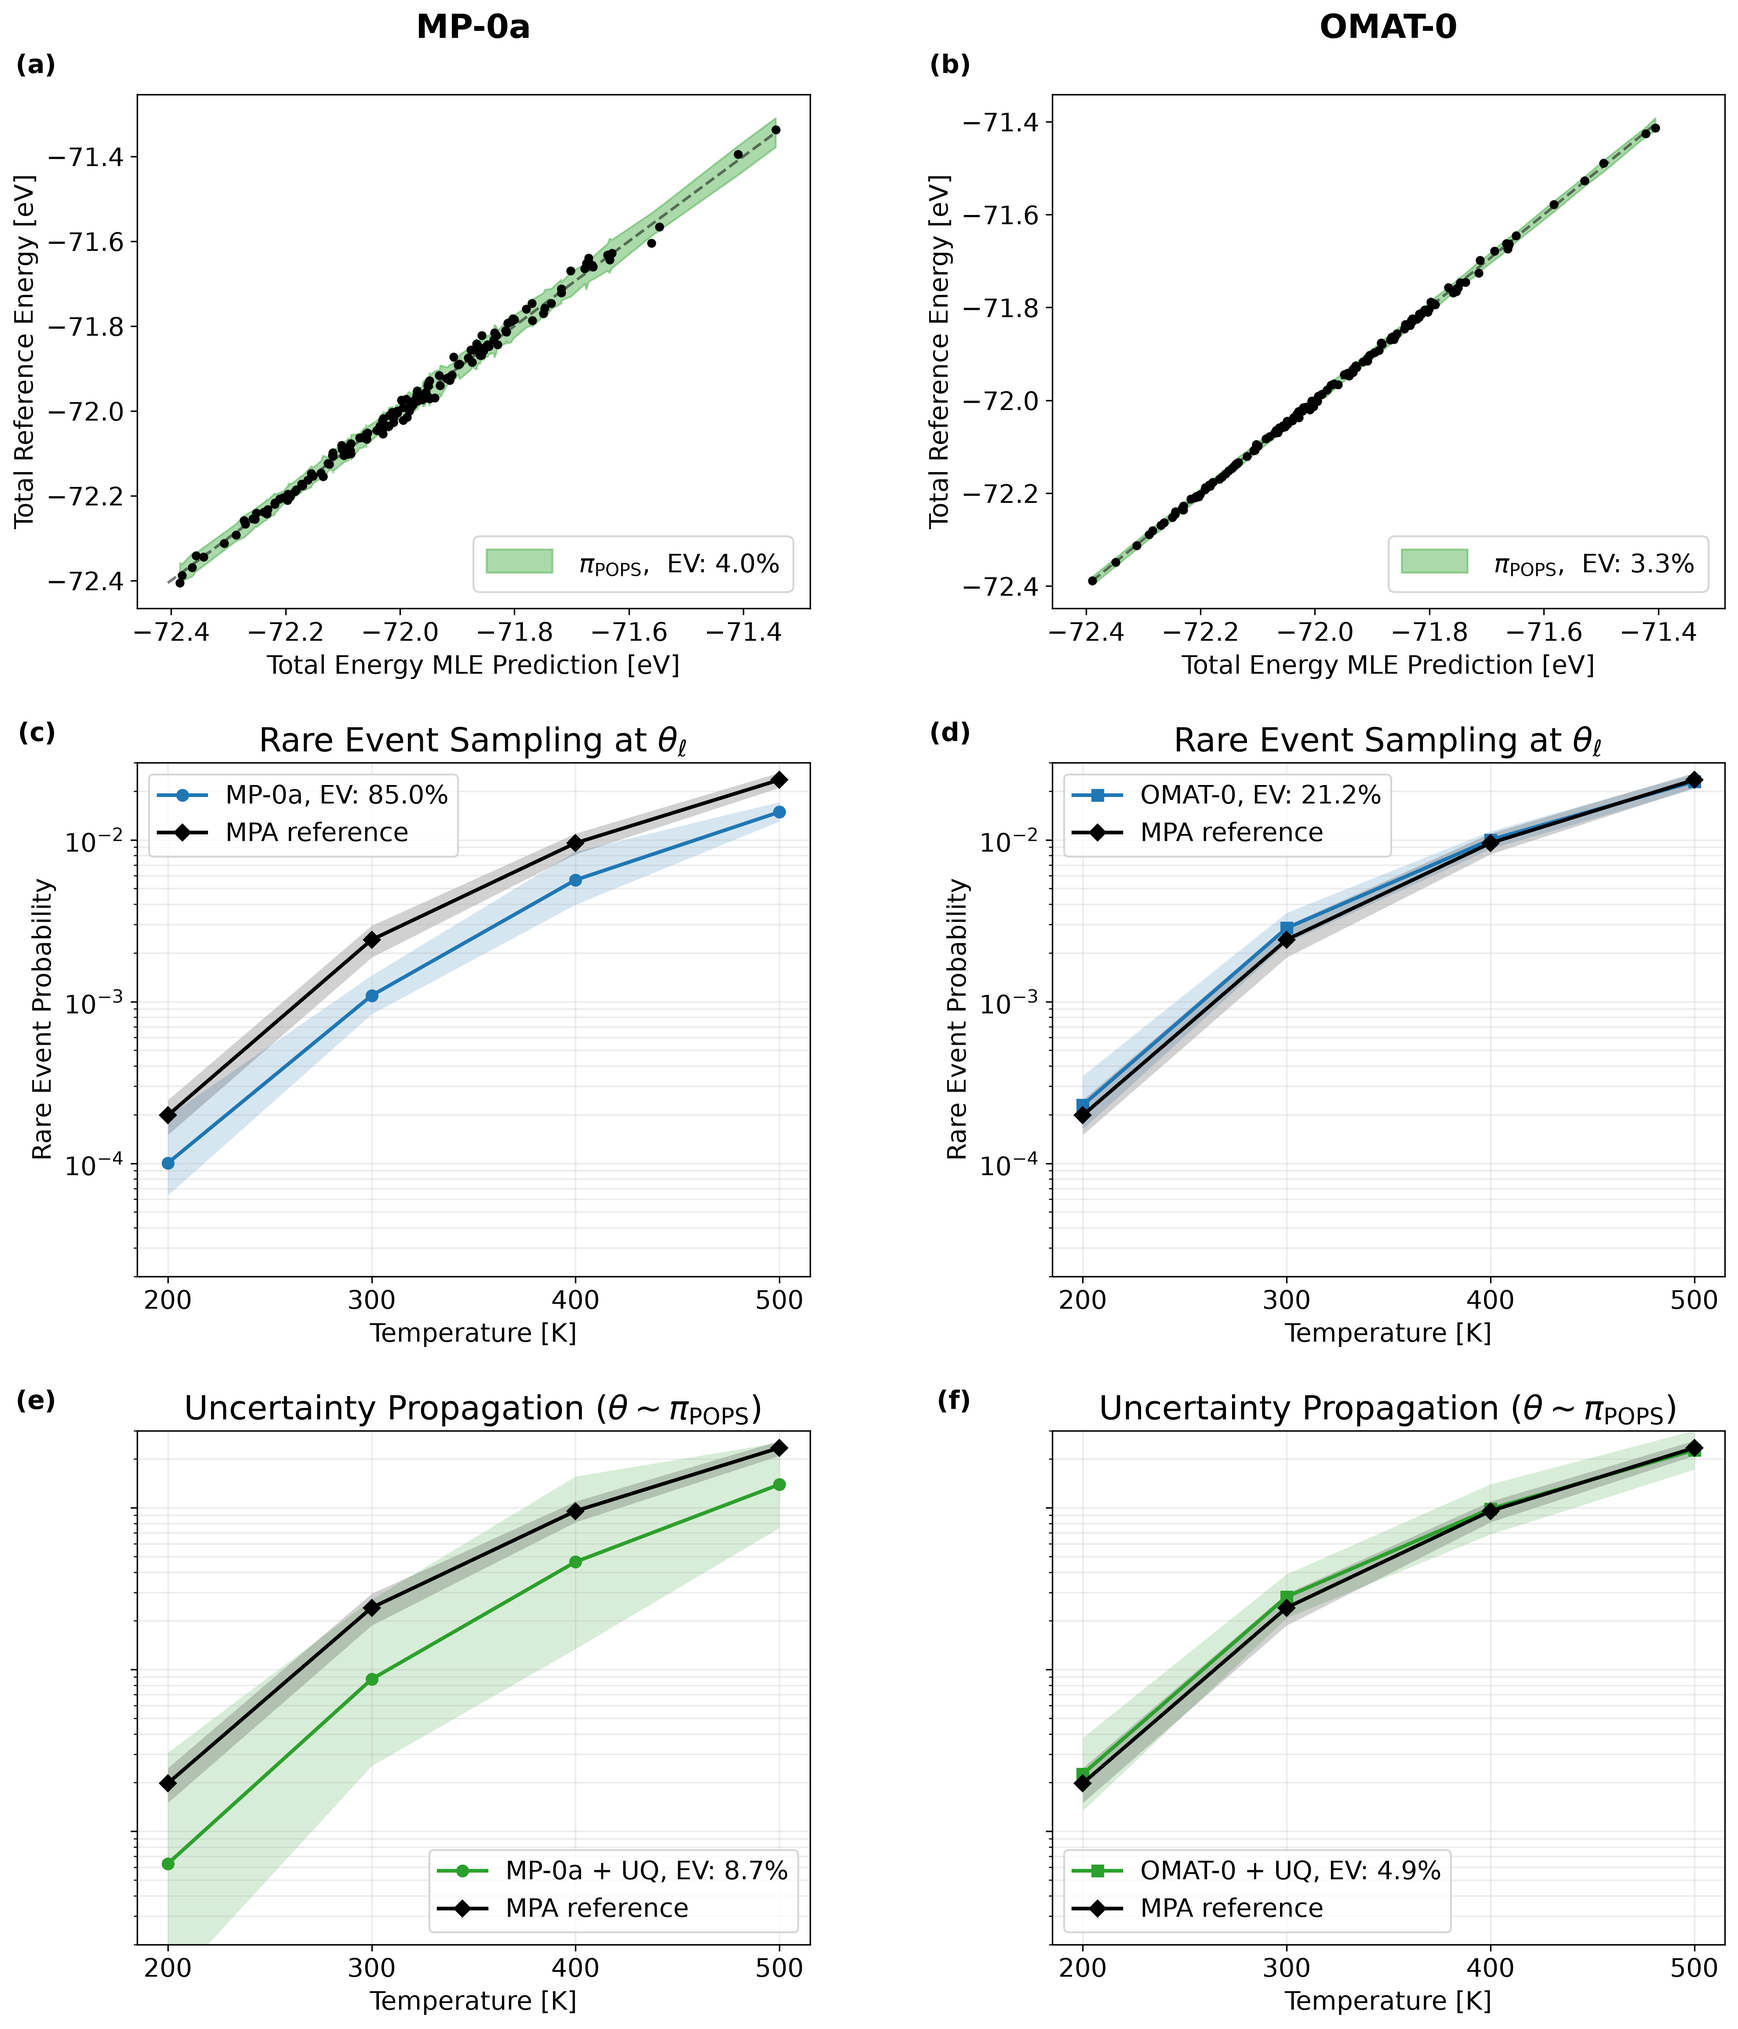
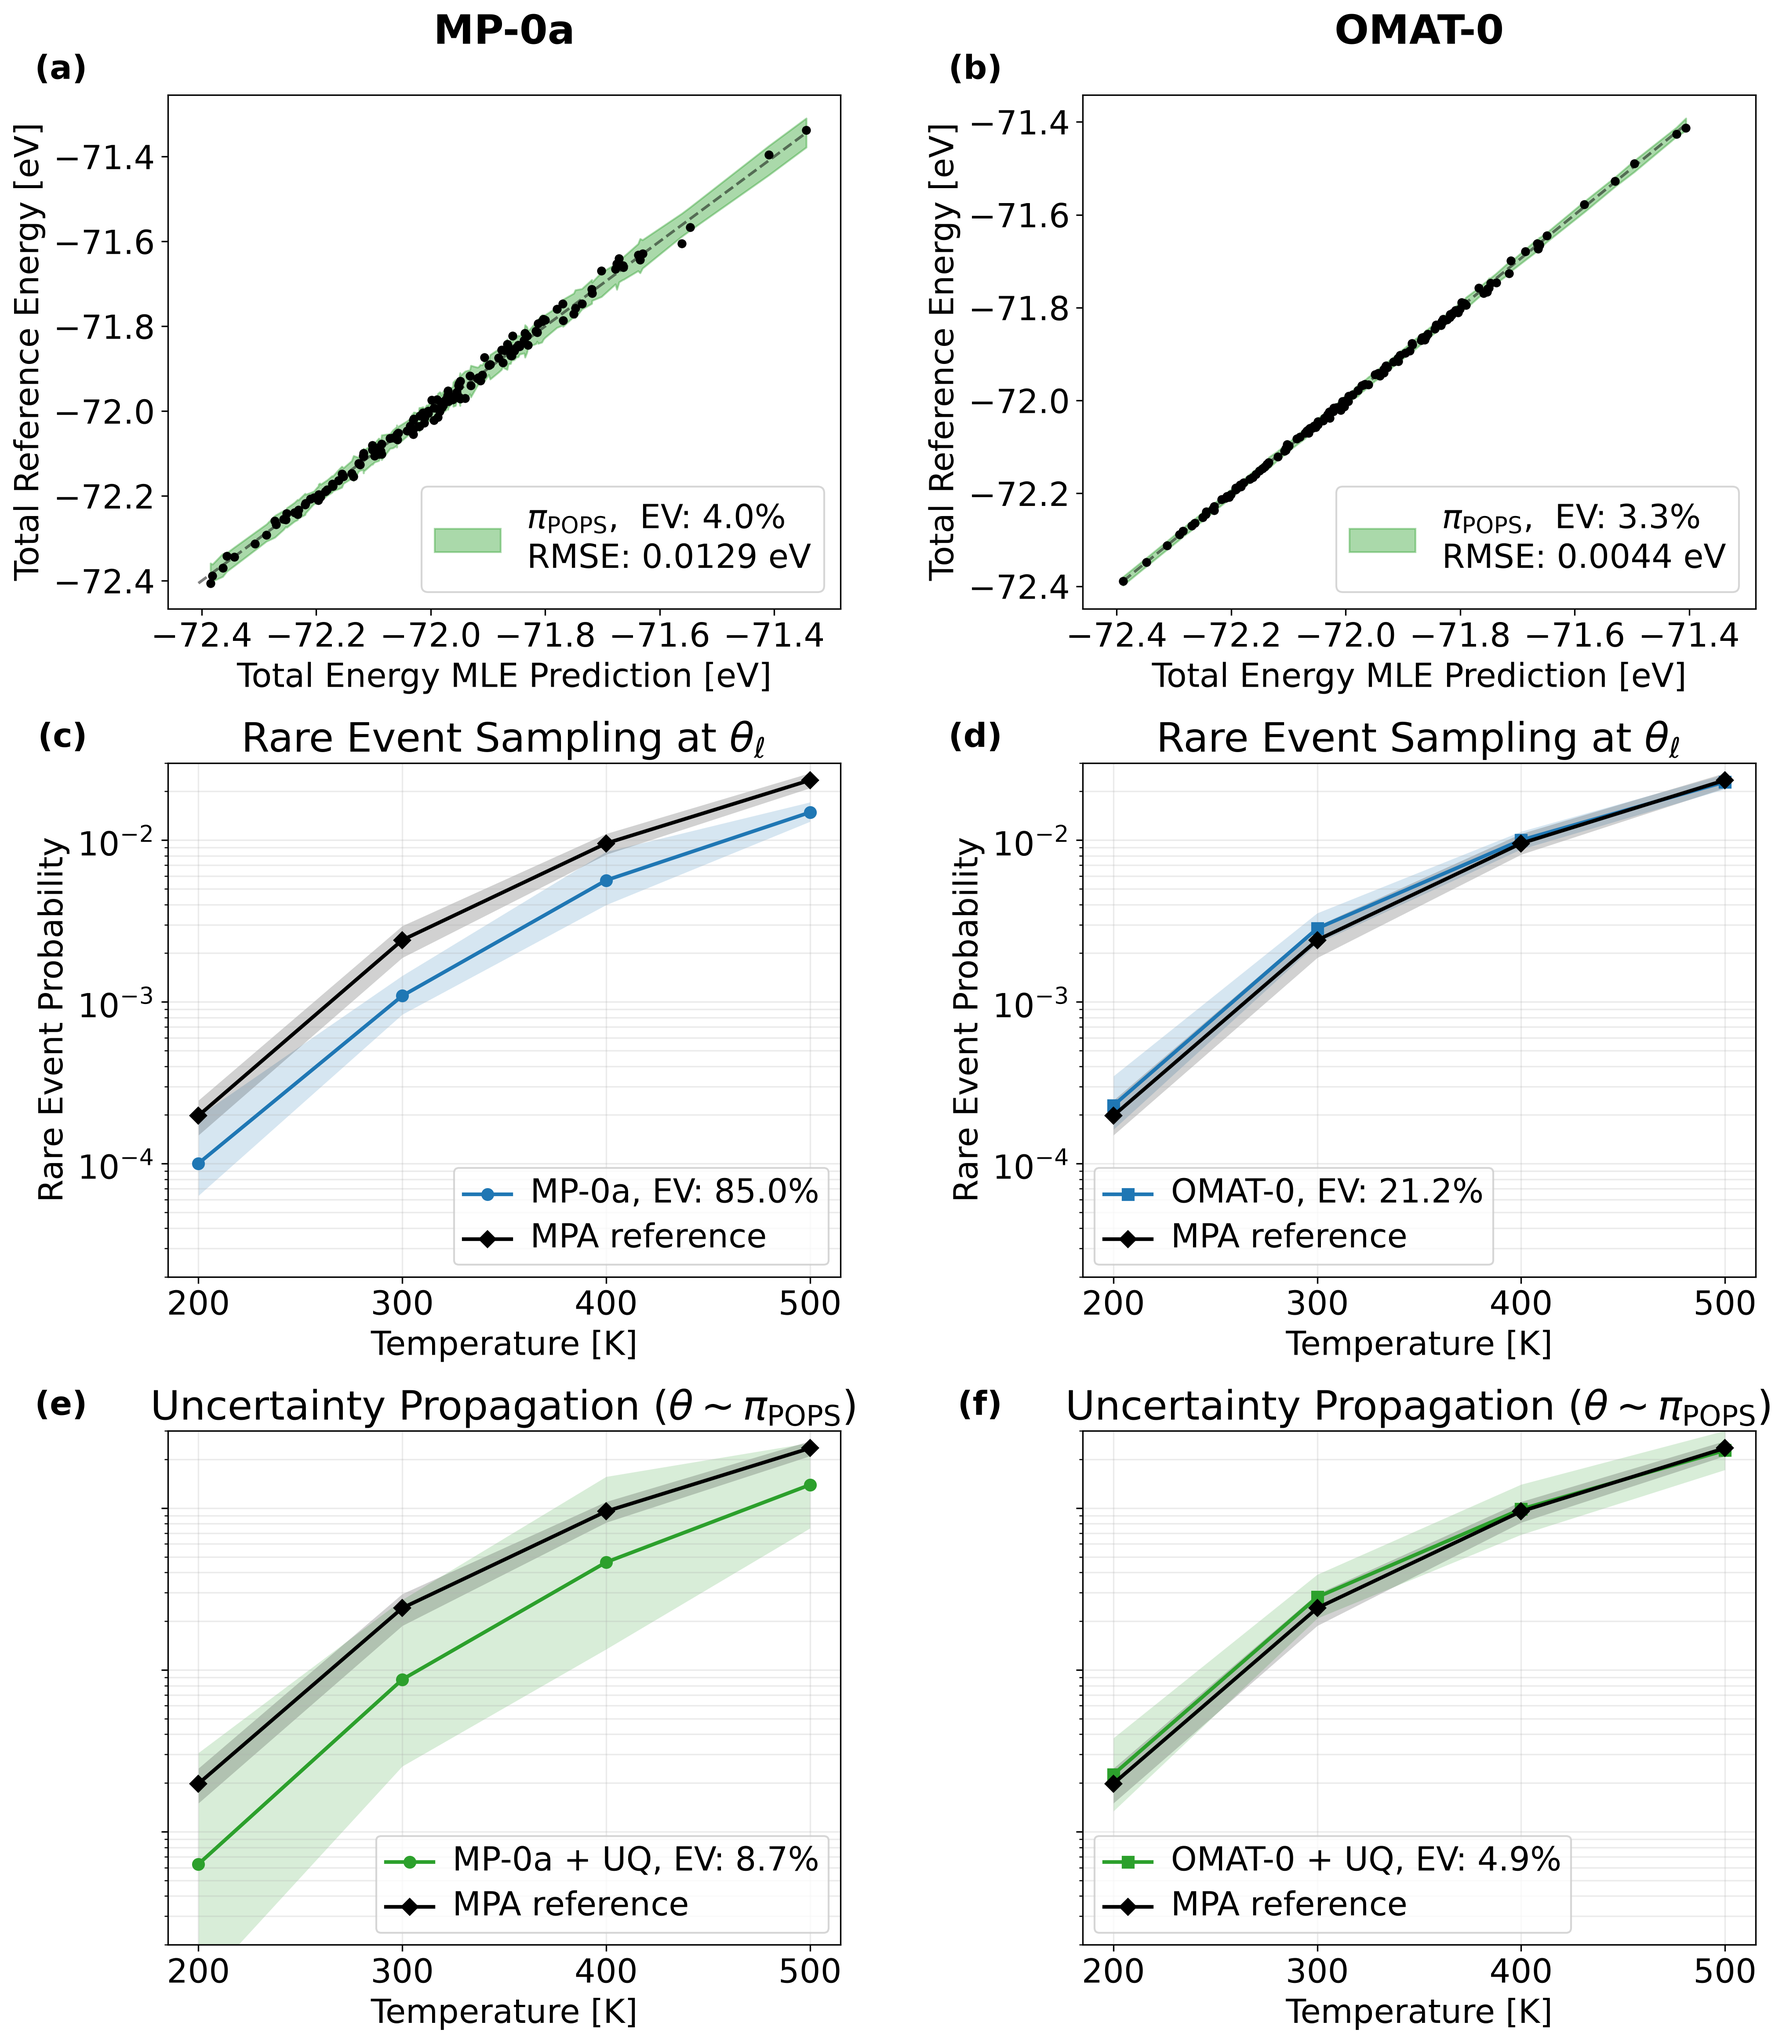
Add RMSE to portrait energy comparison panels

diff --git a/scripts/AMS_butane/plots/plot_energy_probability.py b/scripts/AMS_butane/plots/plot_energy_probability.py
@@ -241,6 +241,7 @@ def run_model(model):
 
     ens_mae_relative = np.mean(np.abs(ens_errors))
     mae_percentage = (ens_mae_relative / true_mae) * 100
+    rmse_energy = np.sqrt(mean_squared_error(E_ref_tot, E_pred_tot))
 
     force_results = {}
     if use_forces and A_f_test is not None:
@@ -305,6 +306,7 @@ def run_model(model):
         "normalized_true_errors": normalized_true_errors[energy_hist_idx],
         "normalized_ens_errors": normalized_ens_errors,
         "mae_percentage": mae_percentage,
+        "rmse_energy": rmse_energy,
         "ev_percentage": ev_percentage,
         **force_results,
     }
@@ -460,6 +462,11 @@ fig.savefig(
 # The two energy-error histograms remain in the landscape version only.
 fig.delaxes(axes[1, 0])
 fig.delaxes(axes[0, 0])
+for result, ax in ((results[1], axes[1, 1]), (results[0], axes[0, 1])):
+    legend_label = ax.get_legend().get_texts()[0]
+    legend_label.set_text(
+        f"{legend_label.get_text()}\nRMSE: {result['rmse_energy']:.4f} eV"
+    )
 vertical_grid = fig.add_gridspec(
     3,
     2,
@@ -521,8 +528,8 @@ for ax, label in panel_labels.items():
         fontsize=18, fontweight='bold', va='top', ha='right',
     )
 
-vertical_font_size = 14
-vertical_title_size = 18
+vertical_font_size = 18
+vertical_title_size = 22
 vertical_font_family = 'DejaVu Sans'
 plt.rcParams['font.family'] = vertical_font_family
 plt.rcParams['mathtext.fontset'] = 'dejavusans'
